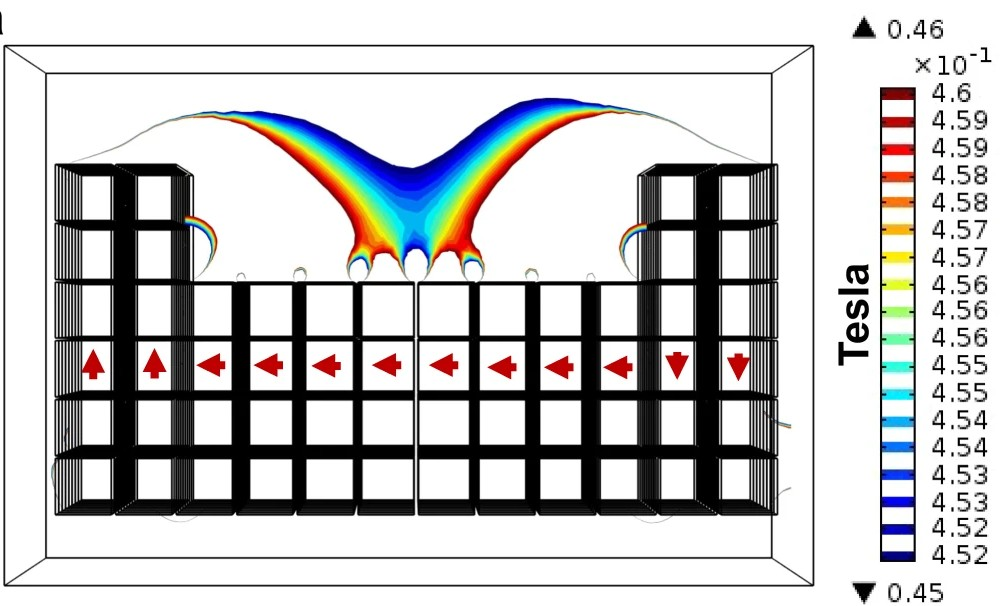
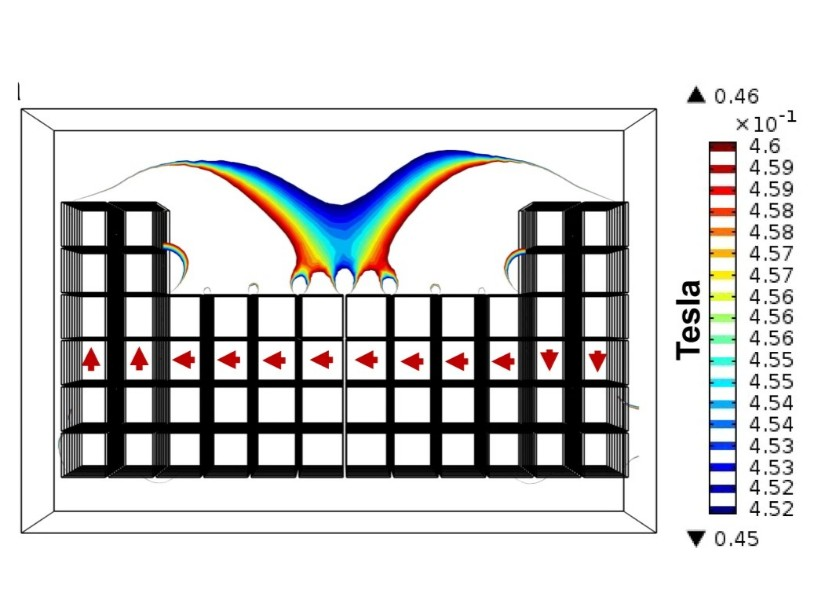
resize images

diff --git a/mind.html b/mind.html
@@ -122,9 +122,9 @@
         <h2 class="w3-bottombar">Cima Lab</h2><br>
         <img src="nmrmag.jpg" style="width:50%; float:left; margin-right:5%">
         <p style="display: inline">I have been a graduate student in the Cima Lab since 2021. For my Master's thesis, I explored the design of an implantable nanofluidic for sampling the neuropeptides from cranial ISF: 
-        <a href="https://dspace.mit.edu/handle/1721.1/155875">link to thesis (requires MIT certificates)</a>
-        <p style="display: inline">For my PhD, I have been working on the development of a novel NMR sensor for detection of fluid status. We are currently testing the device in clinical studies with dialysis patients. For more information on this project see the Cima Lab website: 
-          <a href="https://cima-lab.mit.edu/research/hydration_sensor/">link to nmr project details</a>
+        <a href="https://dspace.mit.edu/handle/1721.1/155875">link to thesis </a> (requires MIT certificates).
+        <p style="display: inline"> For my PhD, I have been working on the development of a novel NMR sensor for detection of fluid status. We are currently testing the device in clinical studies with dialysis patients. For more information on this project see the Cima Lab website: 
+          <a href="https://cima-lab.mit.edu/research/hydration_sensor/">link to NMR project details</a>
         </p>
         <p class="w3-bottombar"></p>
       </div>
